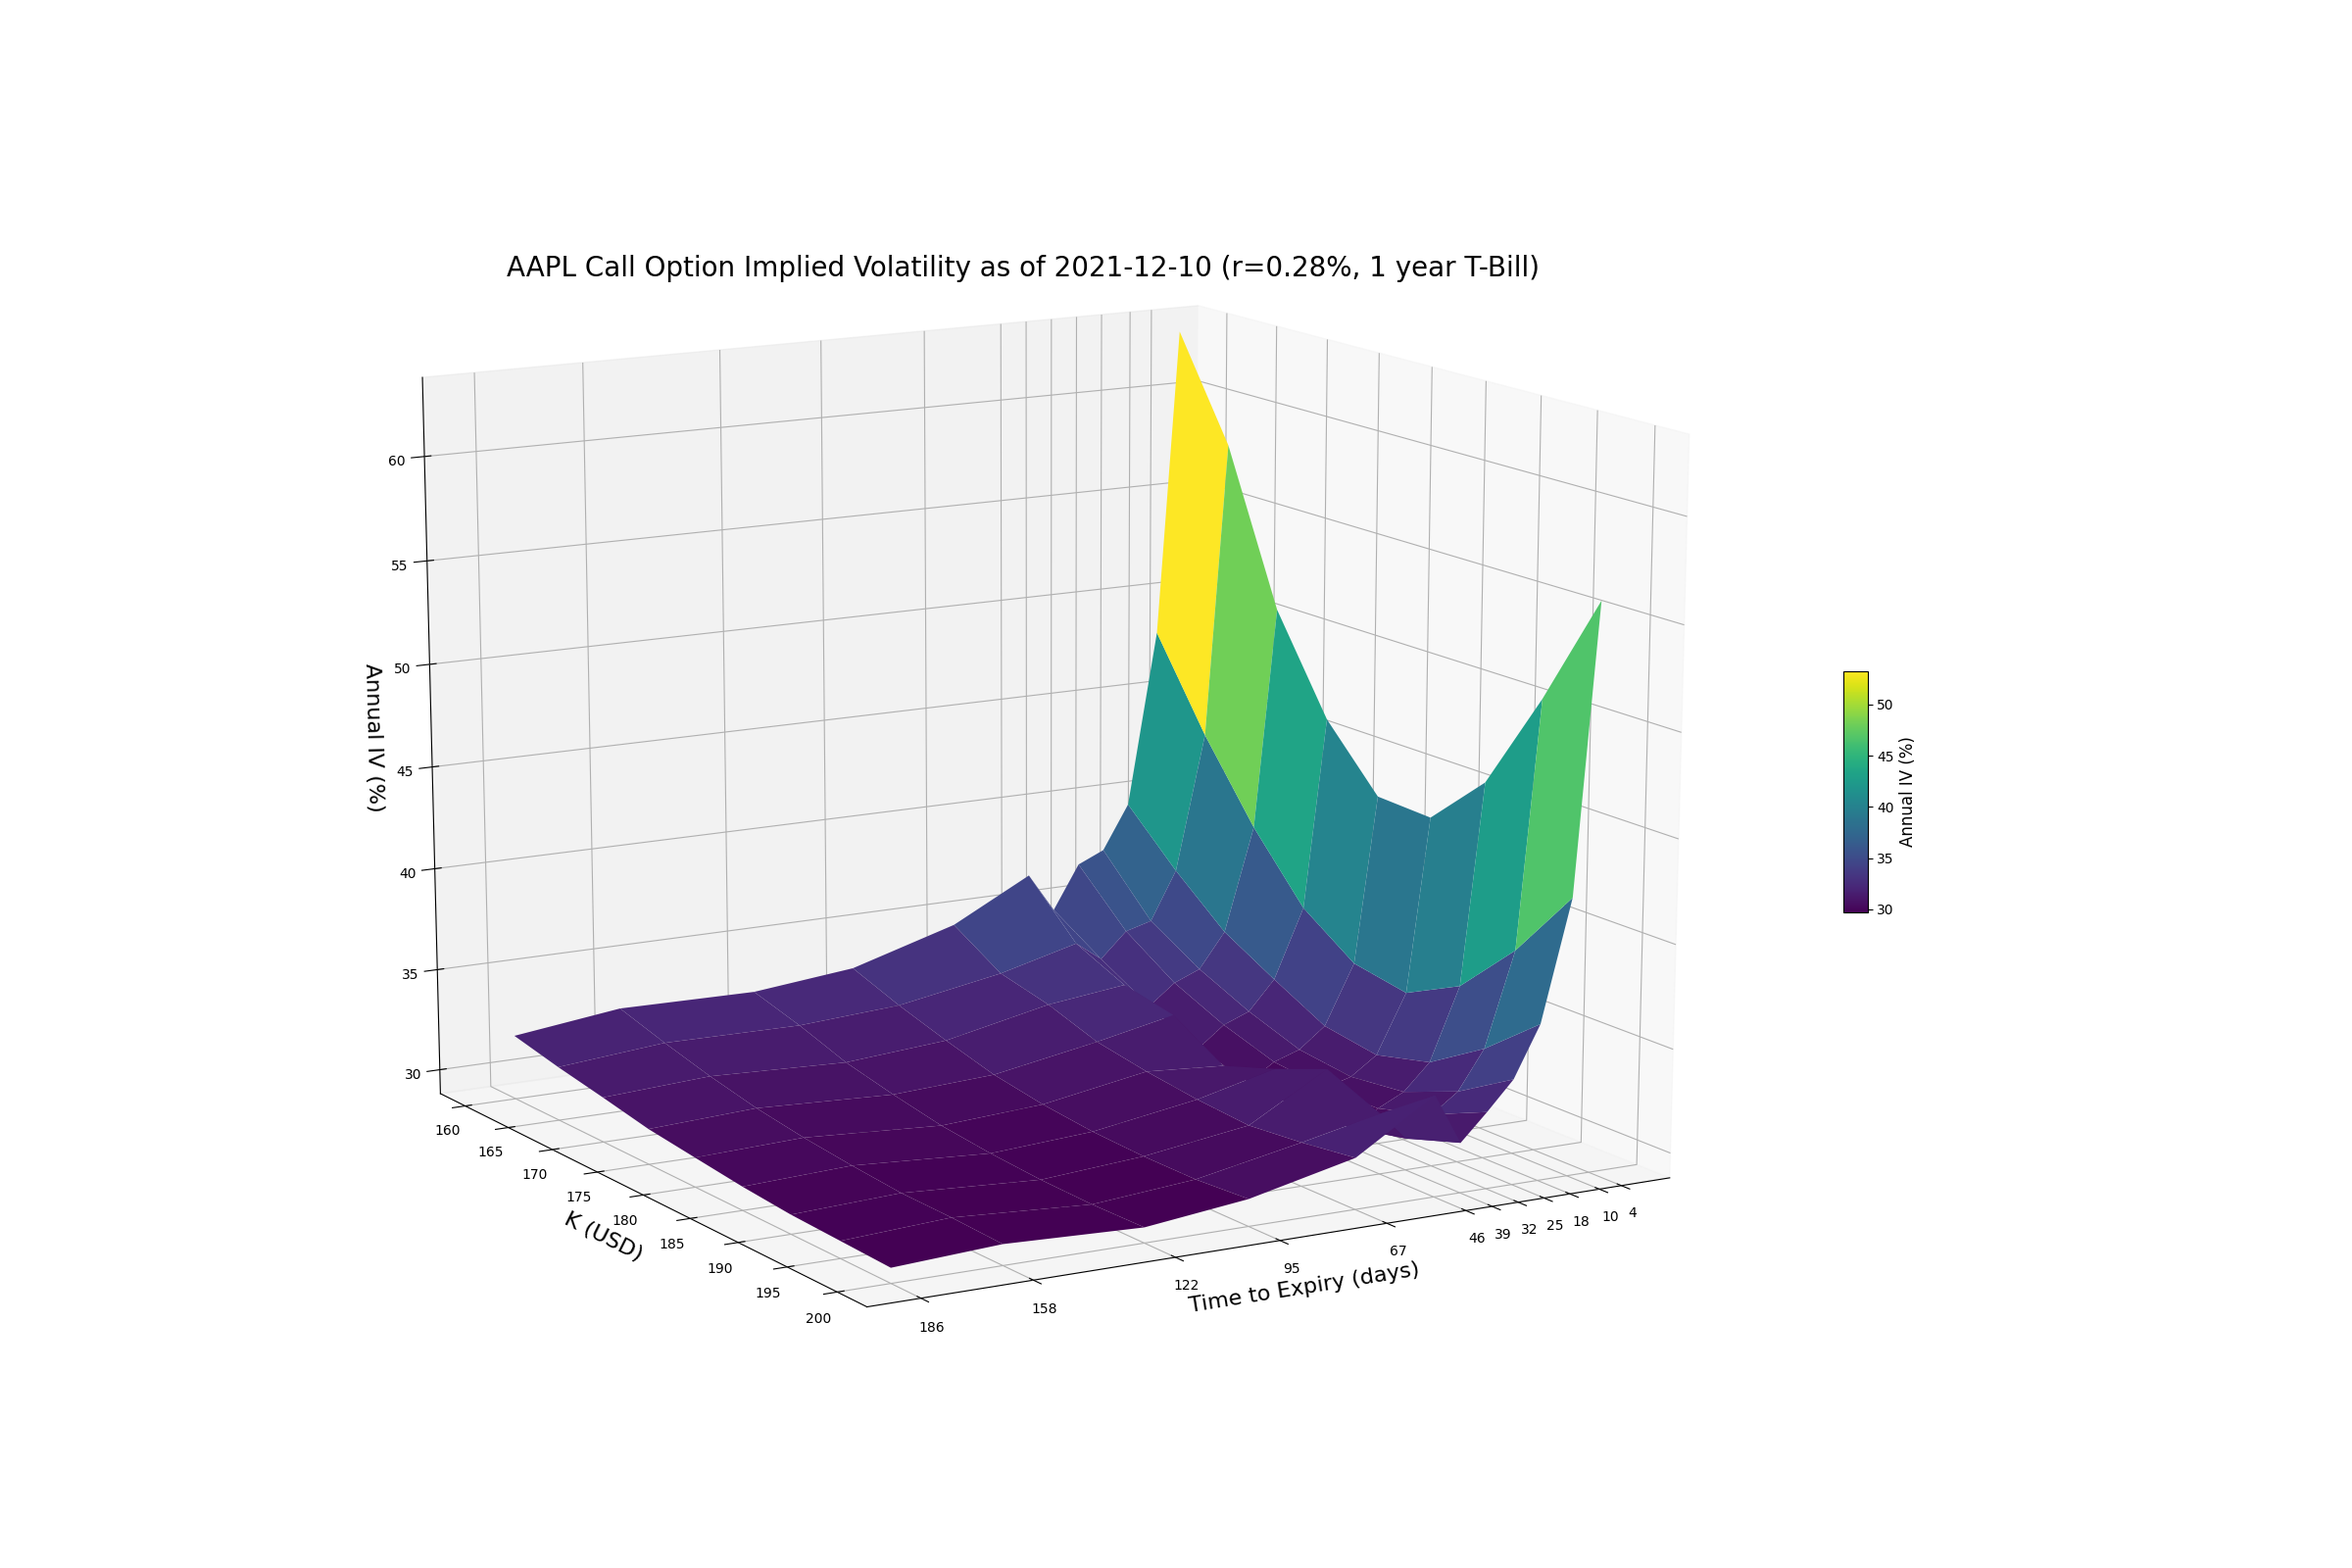
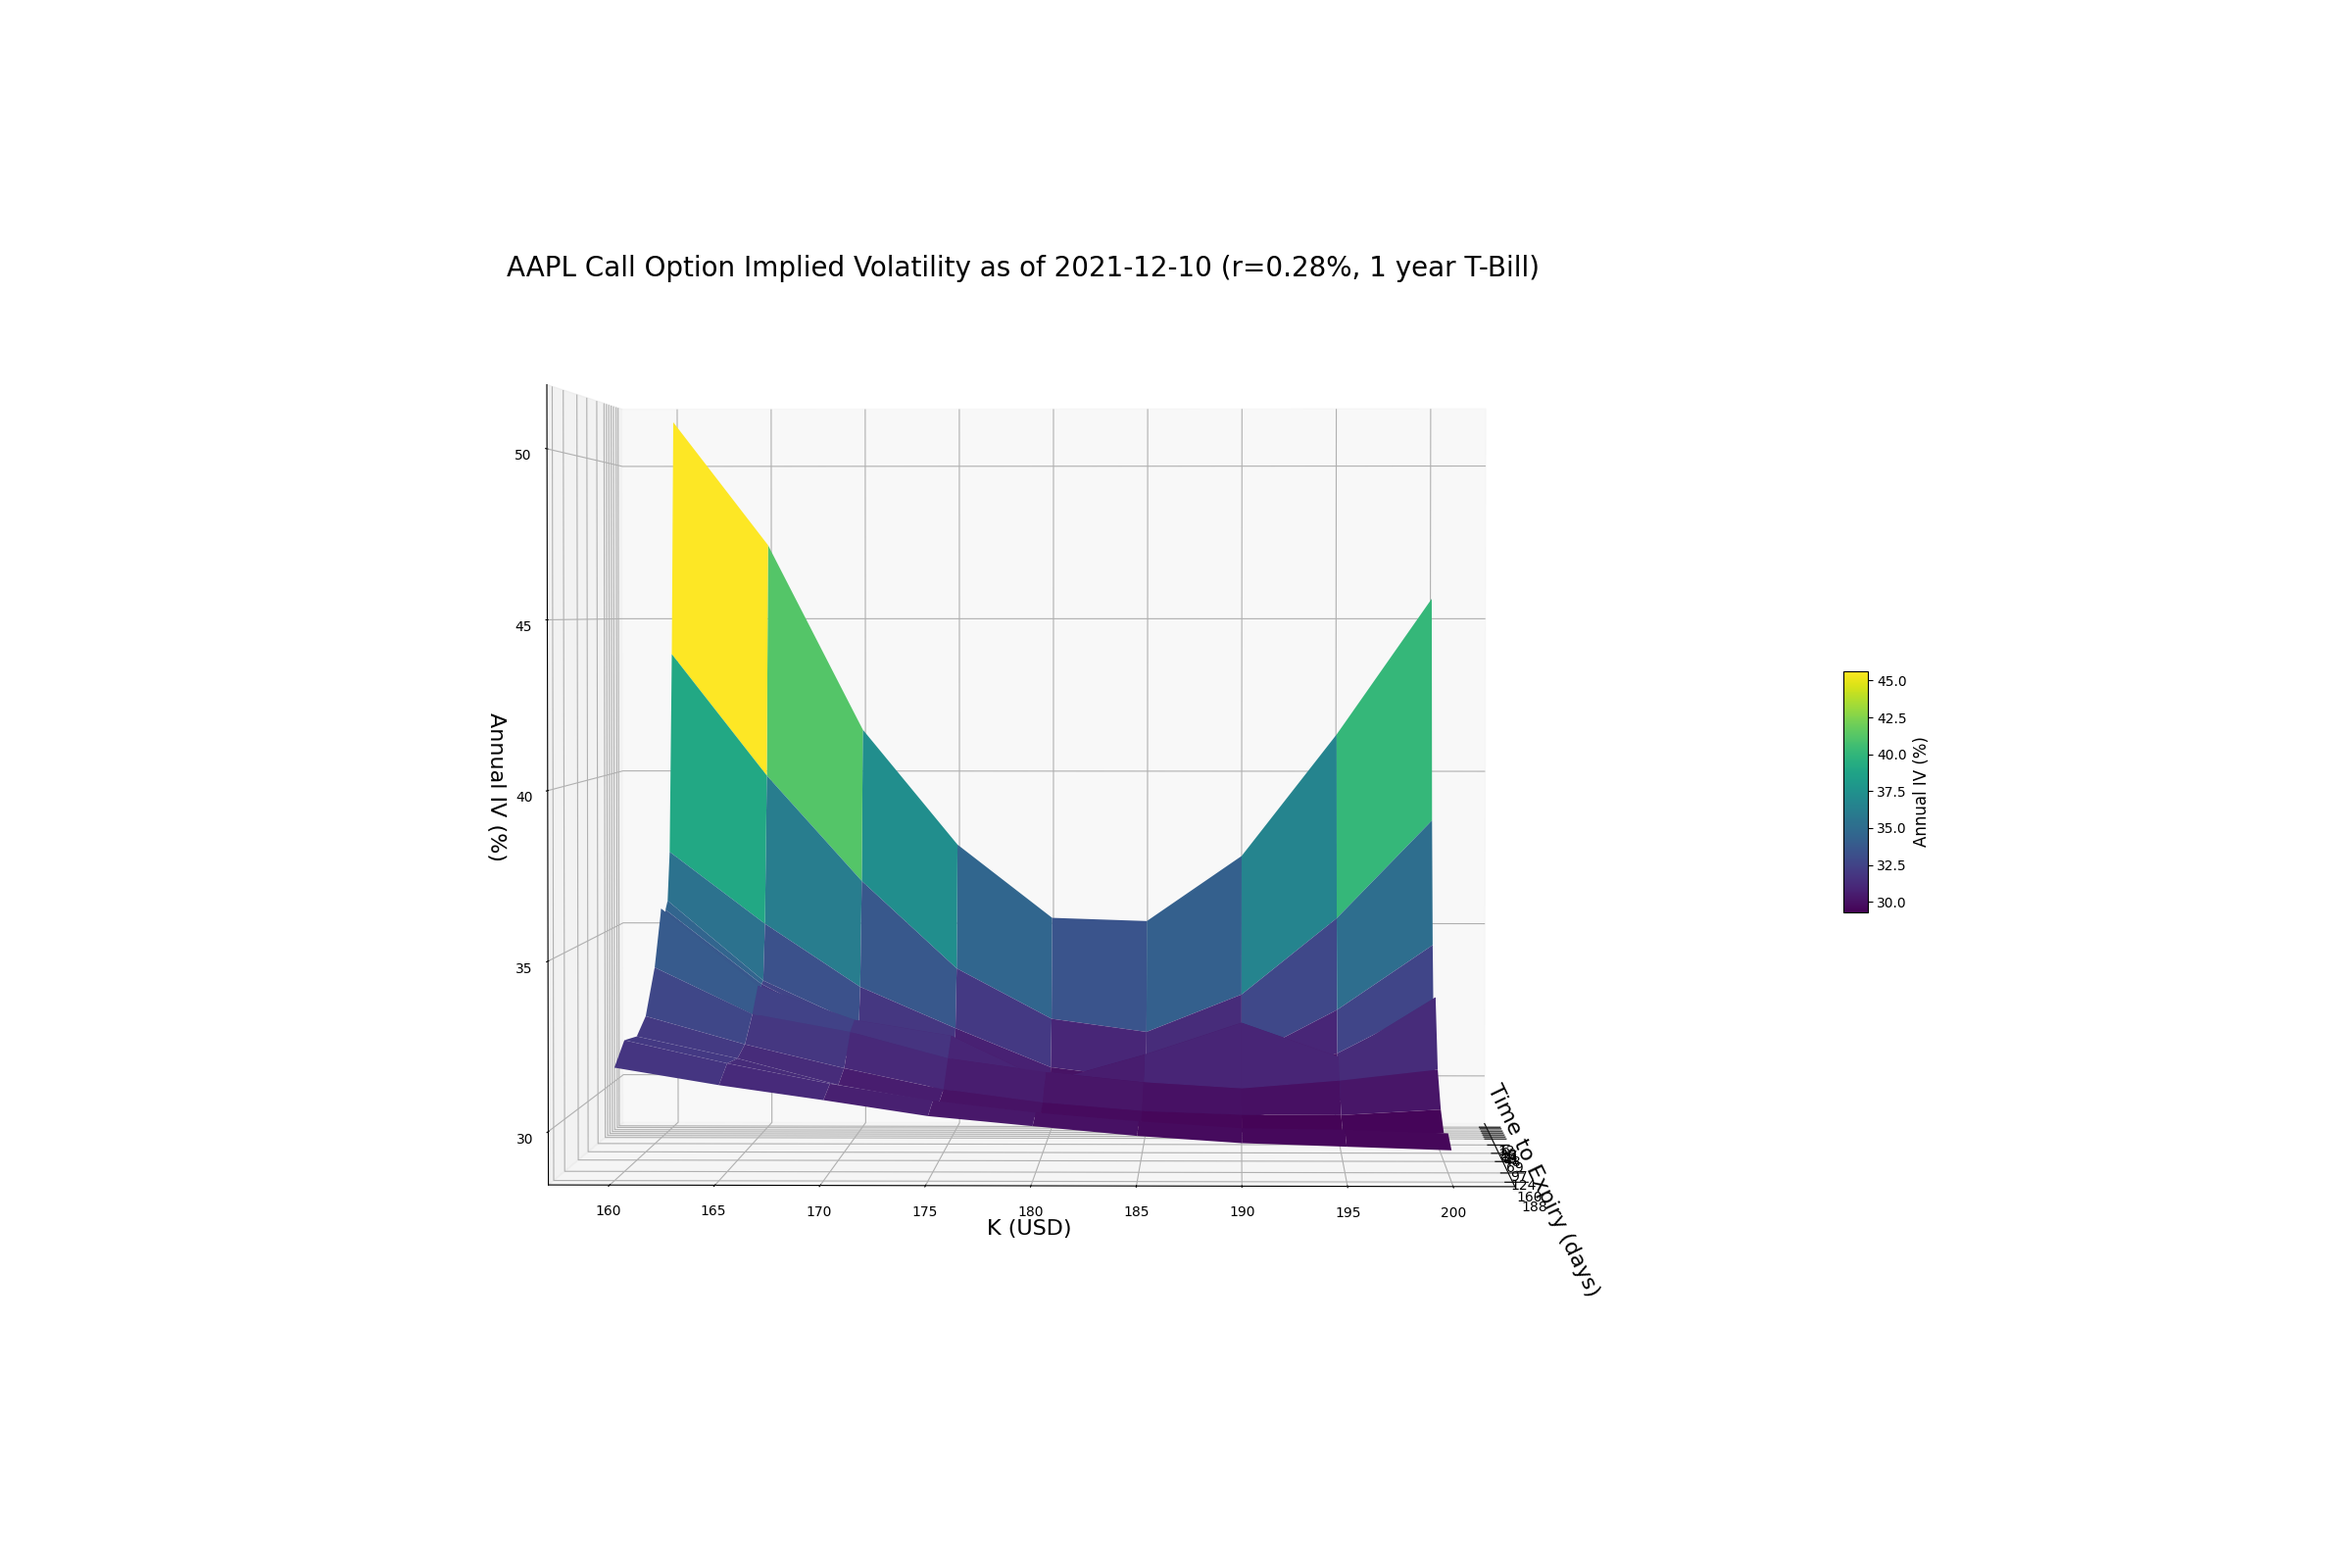
Fixed current date; now static instead of datetime.now(). Was causing incorrect DTE and wrong IV.

Changed region(s): [[0.1562, 0.2188, 0.6875, 0.8438], [0.5, 0.8125, 0.5938, 0.8438], [0.7812, 0.4688, 0.8125, 0.5312]]

diff --git a/src/OptionChain.py b/src/OptionChain.py
@@ -185,7 +185,8 @@ class OptionChain:
         #lastDt = oc.expiries[-1]  # get the expiry of the last contract
         #marketCalendar.createSchedule(scheduleStartDatetimeTz=now, scheduleEndDatetimeTz=lastDt)
         #nextOpenDt, _, _ = marketCalendar.getNextOpenAfter(now)
-        now = datetime.now().date()
+        #now = datetime.now().date() # Note: Can't use now() if we aren't using data collected on the same day (or weekend)
+        now = expiryStrToDate("20211211") # easy format to convert to a date. Note: change this for new data.
         for expiry in me.expiriesDates:
             timedeltaToExpiry = expiry - now
             me.daysToExpiryList.append(timedeltaToExpiry.days)
